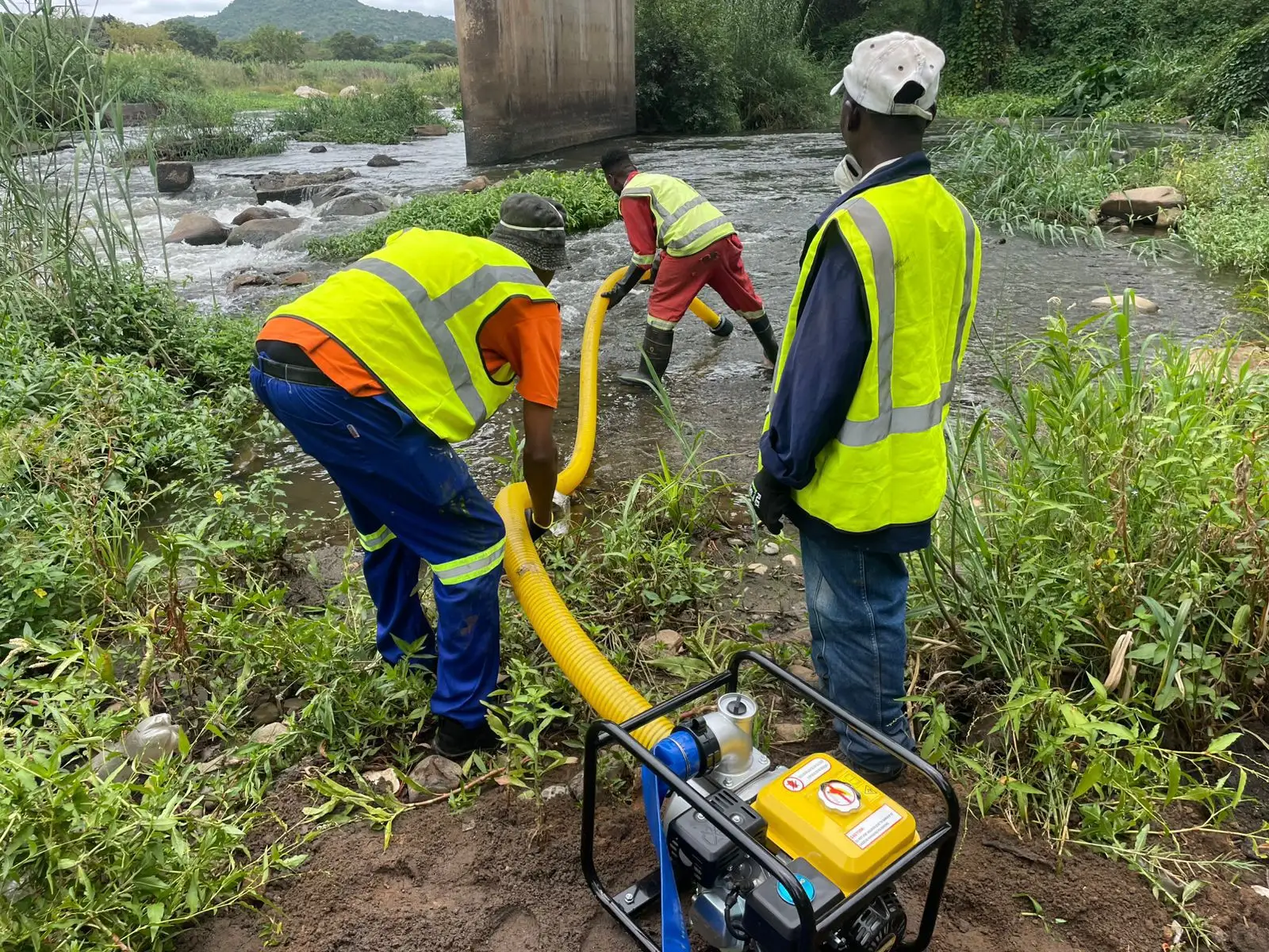
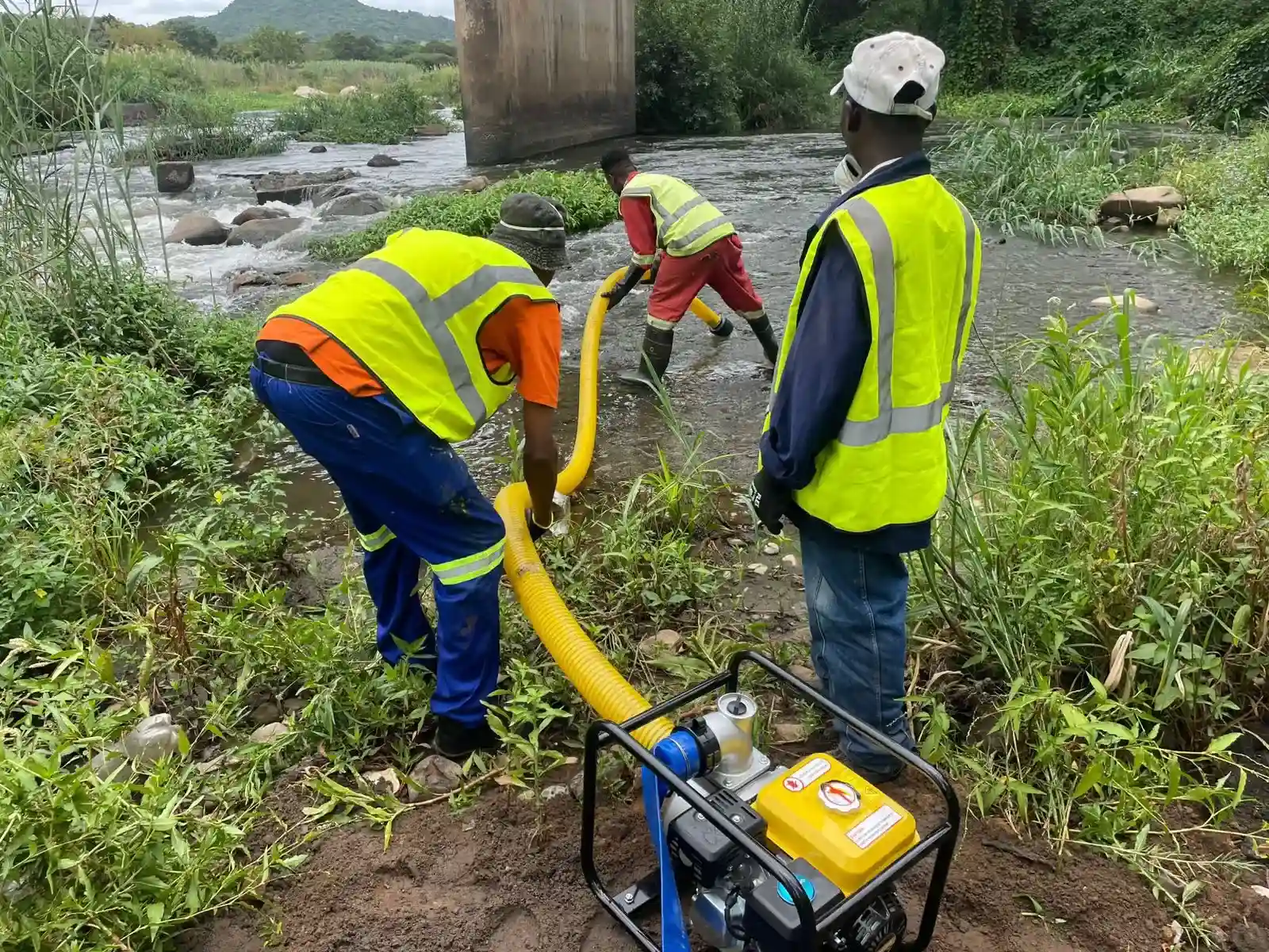
reduced image sizes for faster loading

diff --git a/components/home/services-section.tsx b/components/home/services-section.tsx
@@ -21,7 +21,7 @@ const services = [
   {
     title: "Waste Management",
     icon: "delete_outline",
-    image: "/waste.jpg",
+    image: "/waste.webp",
     description:
       "Integrated solutions for the safe disposal of industrial and hazardous waste in compliance with NEMA.",
     link: "/waste-management",
